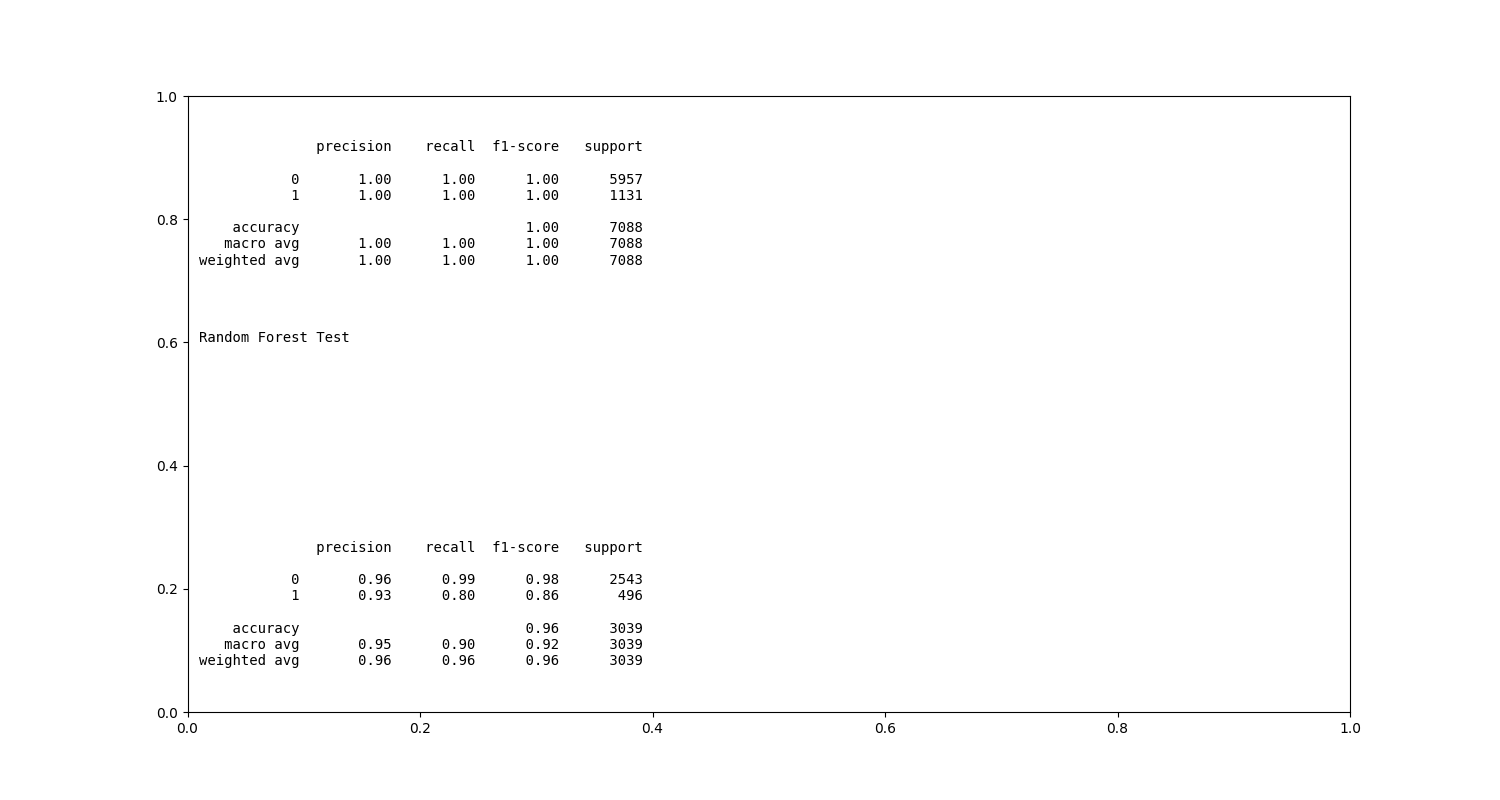
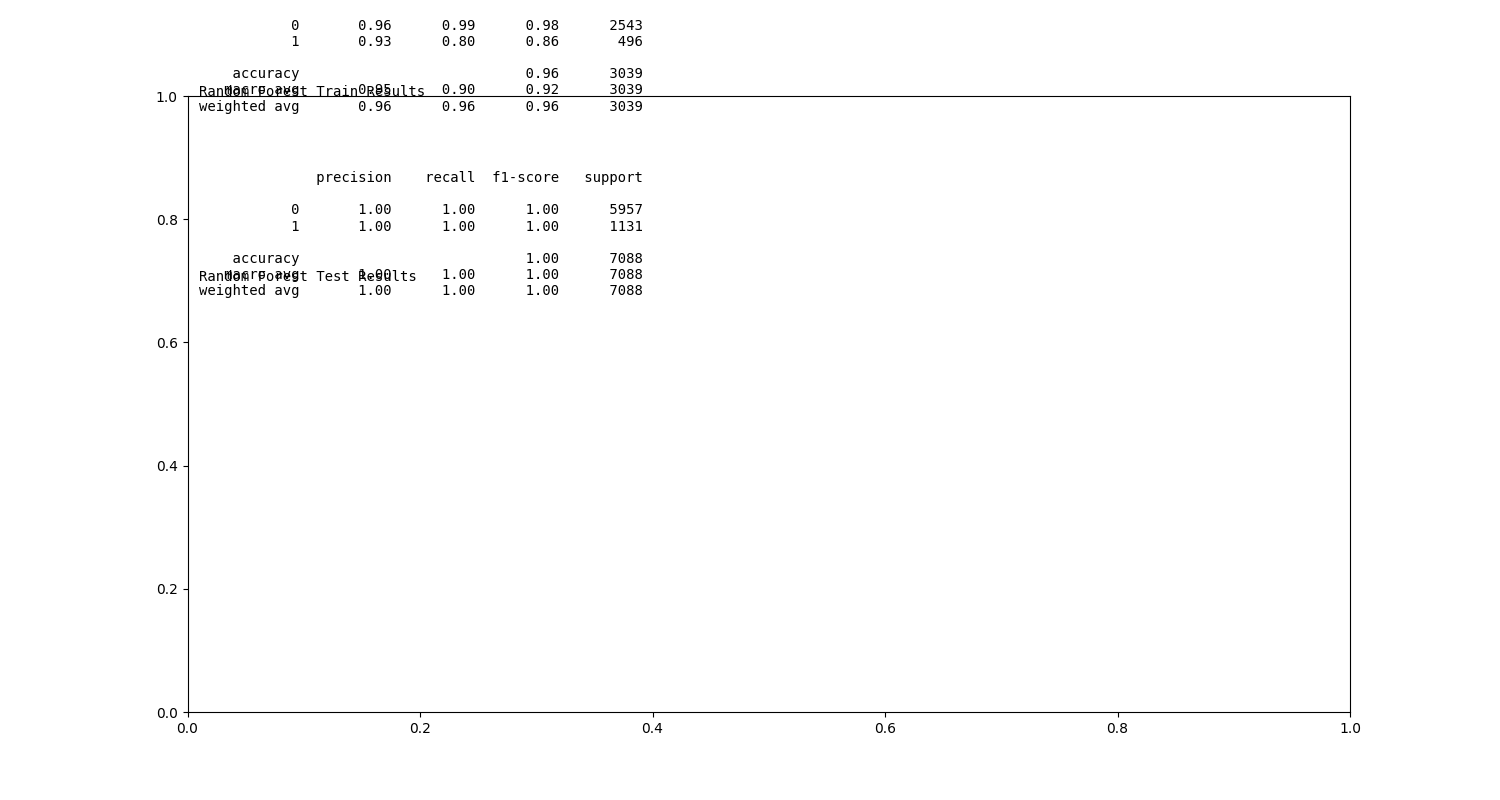
new work on 3/27

diff --git a/churn_library.py b/churn_library.py
@@ -5,7 +5,7 @@
 import shap
 import joblib
 import pandas as pd
-from pandas.plotting import table 
+import numpy as np
 import matplotlib.pyplot as plt
 from sklearn.preprocessing import normalize
 from sklearn.model_selection import train_test_split
@@ -95,24 +95,26 @@ def perform_feature_engineering(df, response=['Customer_Age', 'Dependent_count',
                 y_test: y testing data
         '''
         y = df['Churn']
-        X = pd.DataFrame()
-        X[response] = df[response]
+        X_data = pd.DataFrame()
+        X_data[response] = df[response]
         model_dict = dict()
-        X_train, X_test, y_train, y_test = train_test_split(X, y, test_size= 0.3, random_state=42)
+        X_data_2 = X_data
+        X_train, X_test, y_train, y_test = train_test_split(X_data, y, test_size= 0.3, random_state=42)
         
         model_dict['X_train']=X_train
         model_dict['X_test']=X_test
         model_dict['y_train']=y_train
         model_dict['y_test']=y_test
         
-        return (model_dict)
+        return (model_dict, X_data_2)
 
 def classification_report_image(y_train,
                                 y_test,
                                 y_train_preds_lr,
                                 y_train_preds_rf,
                                 y_test_preds_lr,
-                                y_test_preds_rf):
+                                y_test_preds_rf,
+                                output_pth):
         '''
         produces classification report for training and testing results and stores report as image
         in images folder
@@ -127,55 +129,70 @@ def classification_report_image(y_train,
         output:
                 None
         '''
-        # scores
 
         plt.clf()
         plt.rc('figure', figsize=(5, 5))
-        plt.text(0.01, 1.25, str('Random Forest Train'), {
+        plt.text(0.01, 1, str('Random Forest Train Results'), {
                 'fontsize': 10}, fontproperties='monospace')
-        plt.text(0.01, 0.05, str(classification_report(y_test, y_test_preds_rf)), {
-                'fontsize': 10}, fontproperties='monospace')  # approach improved by OP -> monospace!
-        plt.text(0.01, 0.6, str('Random Forest Test'), {
-                'fontsize': 10}, fontproperties='monospace')
-        plt.text(0.01, 0.7, str(classification_report(y_train, y_train_preds_rf)), {
-                'fontsize': 10}, fontproperties='monospace')  # approach improved by OP -> monospace!
-        plt.savefig('./' + 'Random_Forest_result.png')
-        print('Save Random Forest report figure')
-
-
-
-        print('random forest results')
-        print('test results')
-        print(classification_report(y_test, y_test_preds_rf))
-        ax = plt.subplot(111, frame_on=False) # no visible frame
-        ax.xaxis.set_visible(False)  # hide the x axis
-        ax.yaxis.set_visible(False)  # hide the y axis
-        df = pd.DataFrame(classification_report(y_test, y_test_preds_rf, output_dict=True)).transpose()
-        table(ax,df)
-        plt.savefig('mytesttable_2.png')
-        print('train results')
-        print(classification_report(y_train, y_train_preds_rf))
-
-        print('logistic regression results')
-        print('test results')
-        print(classification_report(y_test, y_test_preds_lr))
-        print('train results')
-        print(classification_report(y_train, y_train_preds_lr))
         
+        plt.text(0.01, 0.7, str(classification_report(y_test, y_test_preds_rf)), {
+                'fontsize': 10}, fontproperties='monospace')  # approach improved by OP -> monospace!
+        
+        plt.text(0.01, 0.6, str('Random Forest Test Results'), {
+                'fontsize': 10}, fontproperties='monospace')
+        
+        plt.text(0.01, 0.3, str(classification_report(y_train, y_train_preds_rf)), {
+                'fontsize': 10}, fontproperties='monospace')  # approach improved by OP -> monospace!
+        
+        plt.text(0.6, 1, str('Logistic Regression Train Results'), {
+                'fontsize': 10}, fontproperties='monospace')
+       
+        plt.text(0.6, 0.7, str(classification_report(y_train, y_train_preds_lr)), {
+                'fontsize': 10}, fontproperties='monospace')  # approach improved by OP -> monospace!
+        
+        plt.text(0.6, 0.6, str('Logistic Regression Test Results'), {
+                'fontsize': 10}, fontproperties='monospace')
+        
+        plt.text(0.6, 0.3, str(classification_report(y_test, y_test_preds_lr)), {
+                'fontsize': 10}, fontproperties='monospace')  # approach improved by OP -> monospace!
 
-
+        plt.savefig(output_pth + 'model_results.png')
+        
 def feature_importance_plot(model, X_data, output_pth):
-    '''
-    creates and stores the feature importances in pth
-    input:
-            model: model object containing feature_importances_
-            X_data: pandas dataframe of X values
-            output_pth: path to store the figure
+        '''
+        creates and stores the feature importances in pth
+        input:
+                model: model object containing feature_importances_
+                X_data: pandas dataframe of X values
+                output_pth: path to store the figure
 
-    output:
-             None
-    '''
-    pass
+        output:
+                None
+        '''
+        
+        # Calculate feature importances
+        importances = model.feature_importances_
+        # Sort feature importances in descending order
+        indices = np.argsort(importances)[::-1]
+
+        # Rearrange feature names so they match the sorted feature importances
+        names = [X_data.columns[i] for i in indices]
+
+        # Create plot
+        plt.figure(figsize=(20,5))
+
+        # Create plot title
+        plt.title("Feature Importance")
+        plt.ylabel('Importance')
+
+        # Add bars
+        plt.bar(range(X_data.shape[1]), importances[indices])
+
+        # Add feature names as x-axis labels
+        plt.xticks(range(X_data.shape[1]), names, rotation=90);
+
+        # Save Plot
+        plt.savefig(output_pth + 'features.png')
 
 def train_models(feature_engineering_dict):
         '''
@@ -242,11 +259,13 @@ def train_models(feature_engineering_dict):
         plt.savefig('./images/model_4.png')
        
         
-        return y_train, y_test, y_train_preds_lr, y_train_preds_rf, y_test_preds_lr, y_test_preds_rf
+        return y_train, y_test, y_train_preds_lr, y_train_preds_rf, y_test_preds_lr, y_test_preds_rf, rfc_model, lr_model
 if __name__ == "__main__":
         df = import_data('./data/bank_data.csv')
         perform_eda(import_data('./data/bank_data.csv'))
         category_list=['Gender','Education_Level','Marital_Status','Income_Category','Card_Category']
-        df = (encoder_helper(df,category_list,)) 
-        a,b,c,d,e,f = train_models(perform_feature_engineering(df))
-        classification_report_image(a,b,c,d,e,f)
+        df = (encoder_helper(df,category_list))
+        model_dict, X_data =  perform_feature_engineering(df)
+        a,b,c,d,e,f,rfc_model, lr_model = train_models(model_dict)
+        # classification_report_image(a,b,c,d,e,f,'./images/')
+        feature_importance_plot(rfc_model, './', X_data)
